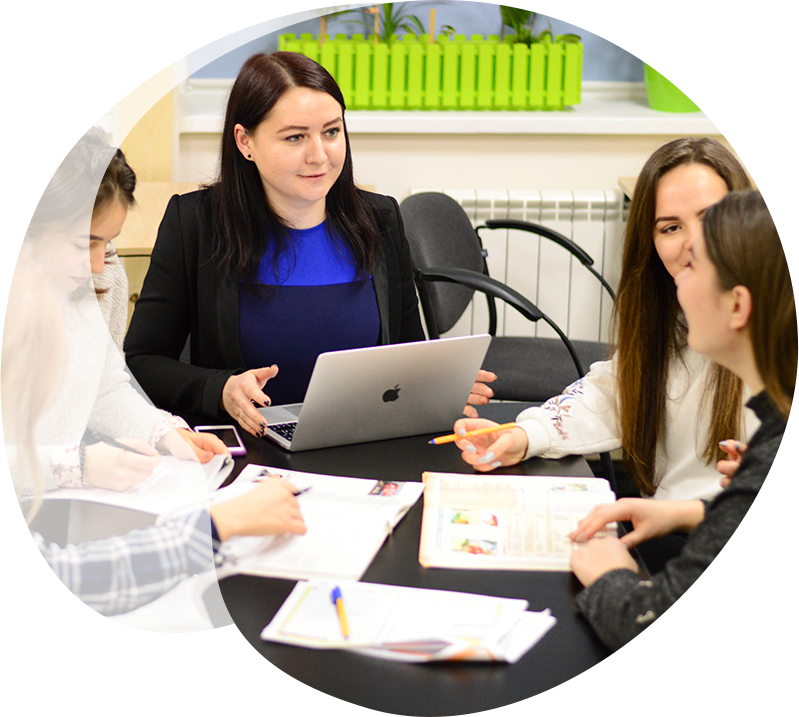
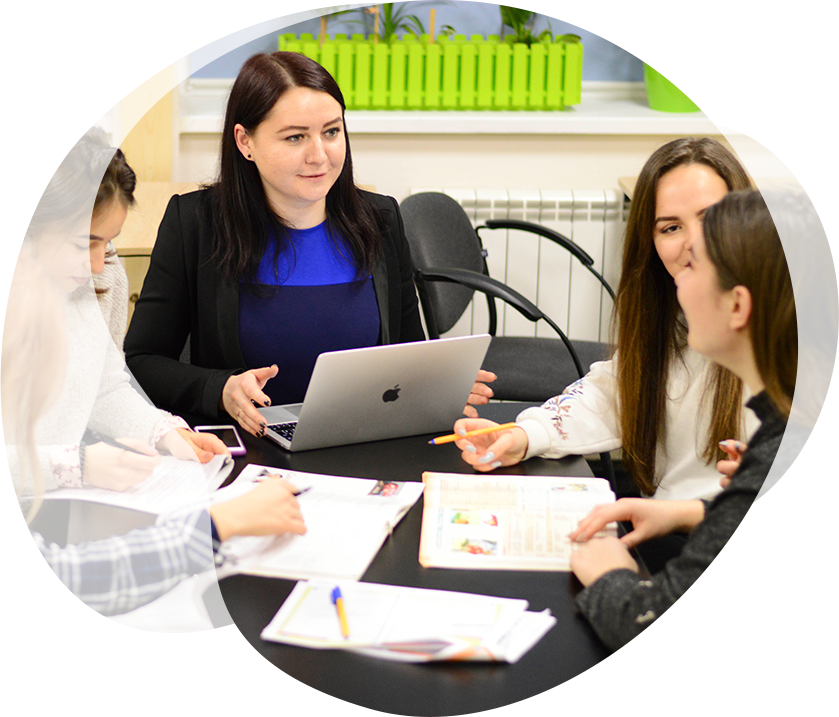
added changes in hero

diff --git a/src/sass/components/hero.scss b/src/sass/components/hero.scss
@@ -133,13 +133,12 @@
 
 @media (min-width: 768px) {
     .hero {
-        margin: 0 auto;
-        padding: 62px 40px 52px 40px;
         background-position: -66px -298px;
         background-size: 126% 131%;
     }
 
     .hero__inner {
+        padding: 62px 0px 52px;
         display: flex;
         align-items: center;
         margin-bottom: 117px;
@@ -167,12 +166,12 @@
 
 @media (min-width: 1280px) {
     .hero {
-        padding: 44px 35px 52px 88px;
         background-position: -98px -413px;
         background-size: 126% 131%;
     }
 
     .hero__inner {
+        padding: 44px 0px 52px 0px;
         margin-bottom: 130px;
     }
 
@@ -252,14 +251,23 @@
 @media (min-width: 1680px) {
 
     .hero {
-        padding: 44px 35px 52px 88px;
         background-position: -98px -500px;
         background-size: 126% 131%;
     }
 
+    .hero__inner {
+        padding: 44px 0px 52px 0px;
+        margin-bottom: 130px;
+    }
+
+    .hero__image {
+        position: relative;
+    }
+    
     .hero__title {
         font-size: 58px;
         line-height: 75px;
+        width: 608px;
     }
 
     .hero__title-content {

diff --git a/src/html/hero.html b/src/html/hero.html
@@ -10,7 +10,7 @@
         <a class="hero__link" href="#">Хочу на бесплатное занятие</a>
       </div>
       <div class="hero__image">
-        <picture>
+        <picture class="hero__image-content">
           <source media="(min-width: 768px) and (max-width: 1279px)"
             srcset="./images/hero768.png 1x, ./images/hero768@2x.png 2x">
           <source media="(min-width: 1280px) and (max-width: 1679px)"

diff --git a/src/sass/main.scss b/src/sass/main.scss
@@ -5,7 +5,7 @@
 @import 'container.scss';
 @import 'fonts.scss';
 @import 'normalize.scss';
-@import 'base.scss';
+// @import 'base.scss';
 @import 'header.scss';
 @import 'components/hero.scss';
 @import 'components/problems.scss';
